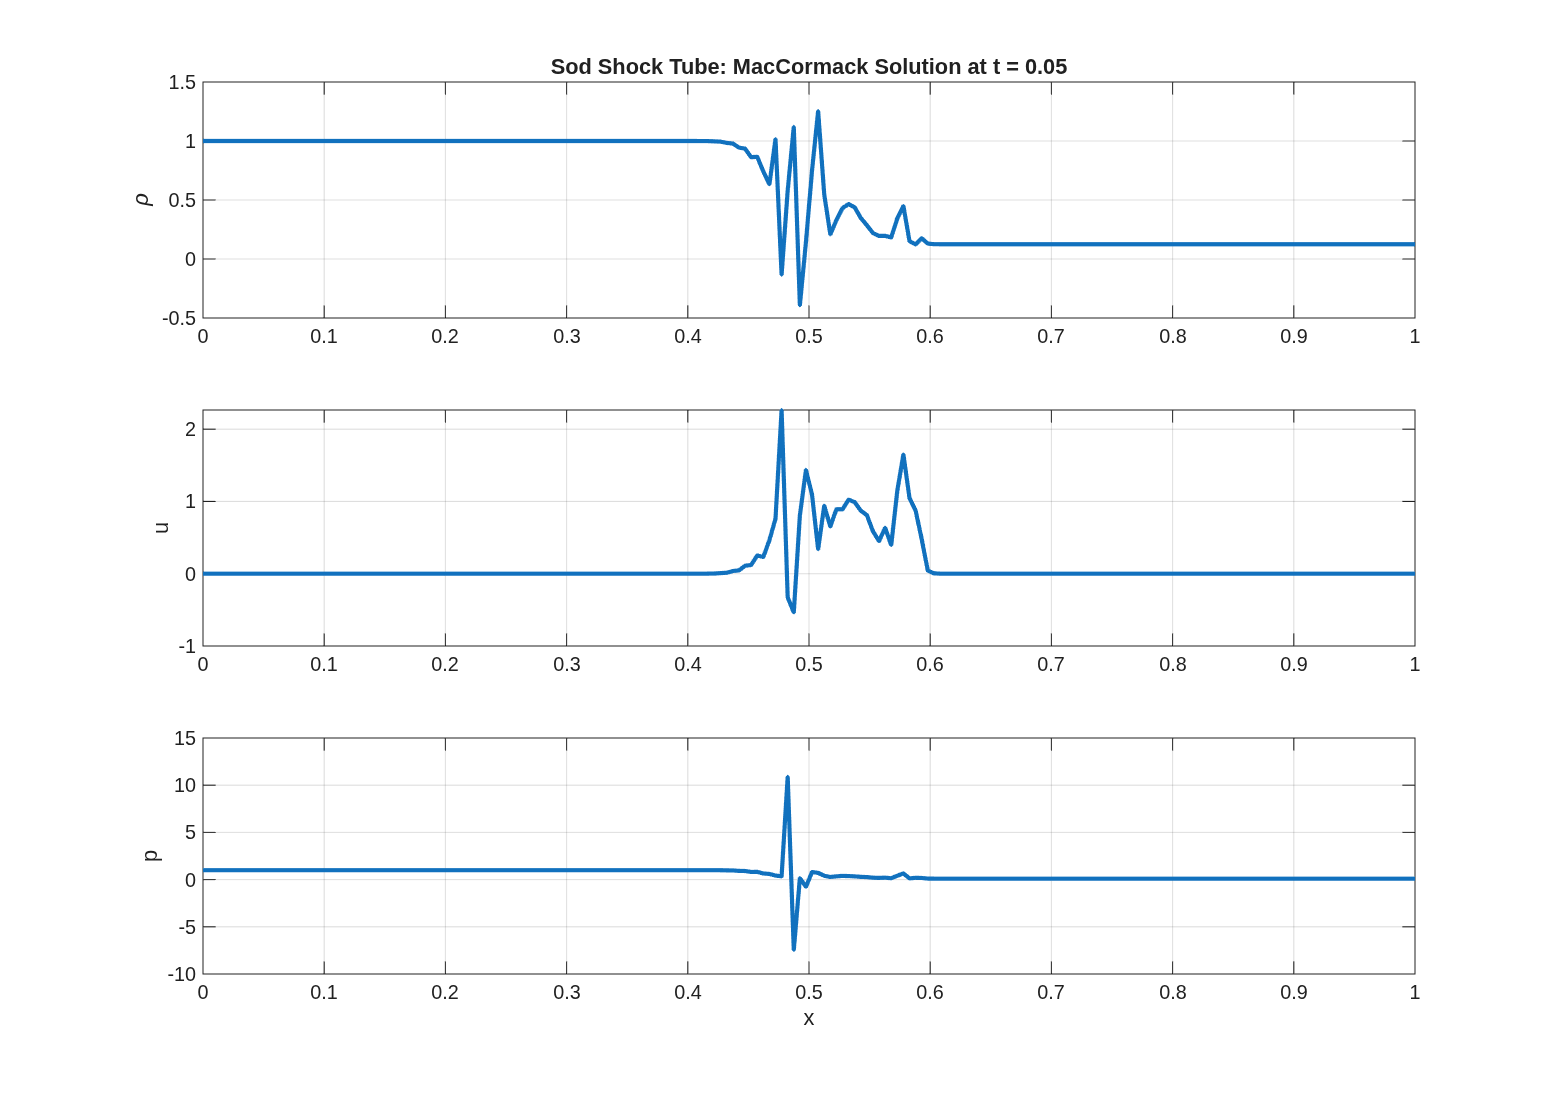
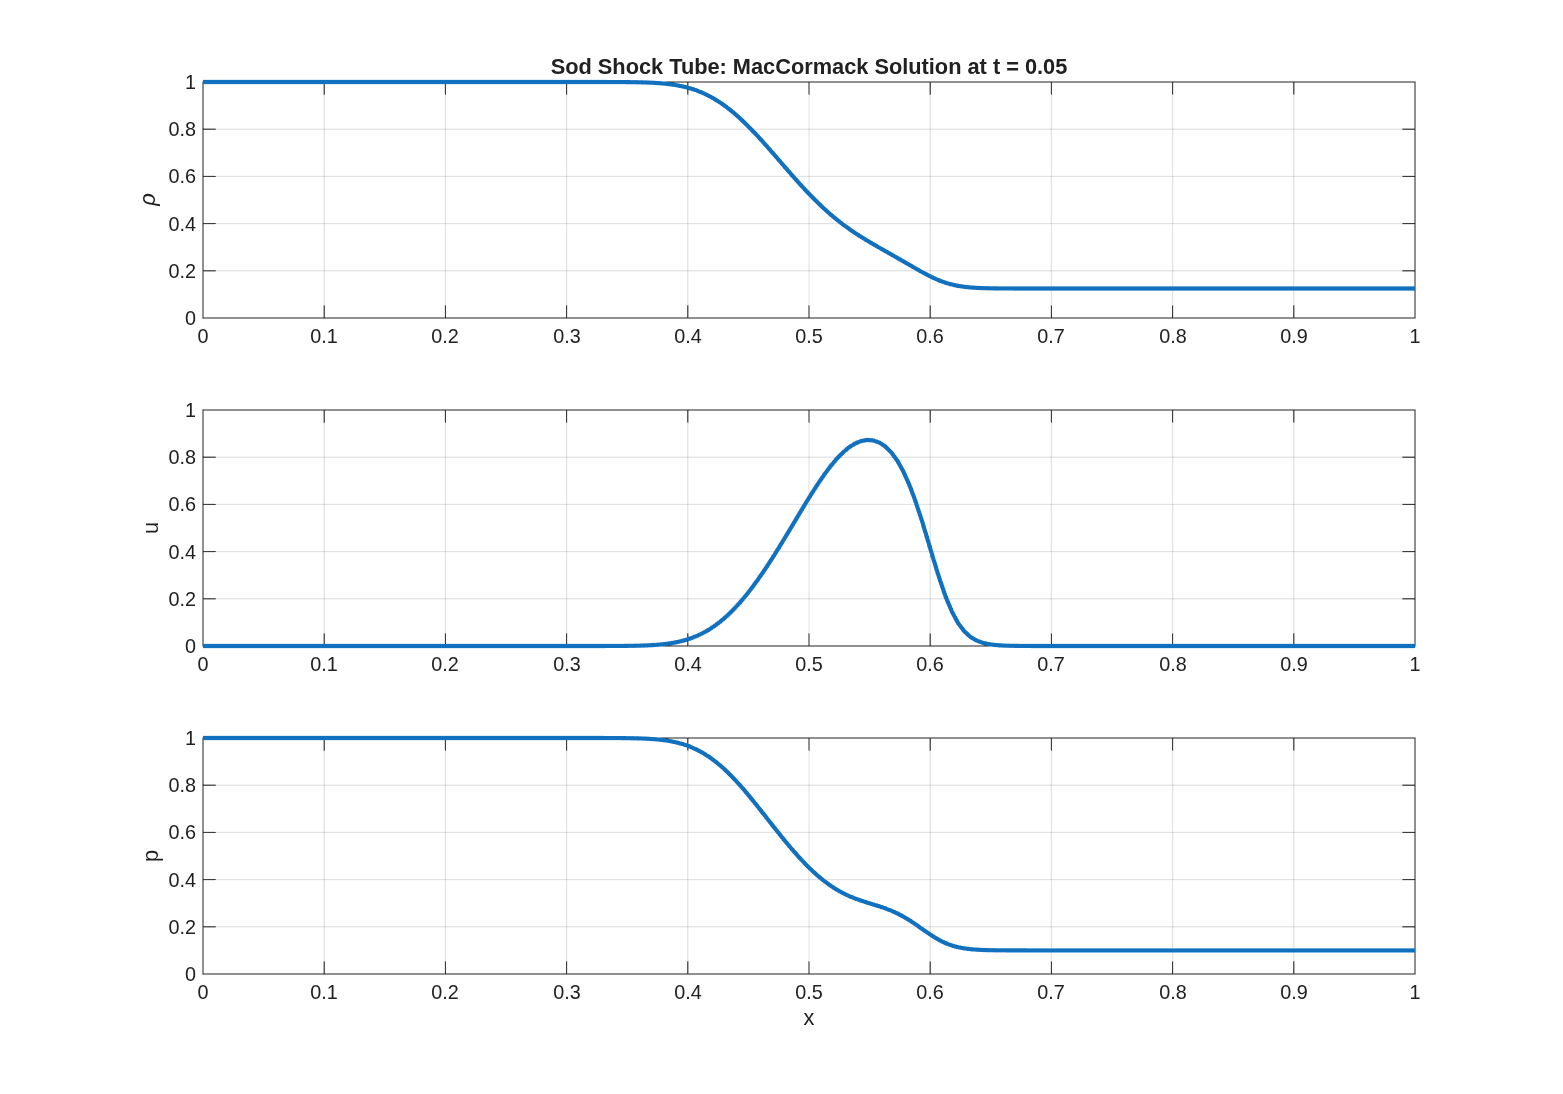
Add stabilized MacCormack solver for Sod shock tube

diff --git a/projects/04_Compressible_Euler_Solver/src/main_sod.m b/projects/04_Compressible_Euler_Solver/src/main_sod.m
@@ -147,7 +147,7 @@ subplot(3,1,1)
 plot(x,rho_mac,'LineWidth',2)
 ylabel('\rho')
 grid on
-title('Sod Shock Tube: MacCormack Solution at t = 0.01')
+title('Sod Shock Tube: MacCormack Solution at t = 0.05')
 
 subplot(3,1,2)
 plot(x,u_mac,'LineWidth',2)
@@ -160,4 +160,4 @@ ylabel('p')
 xlabel('x')
 grid on
 
-saveas(gcf, fullfile(output_dir,'sod_maccormack_t001.png'))
+saveas(gcf, fullfile(output_dir,'sod_maccormack_t005.png'))
